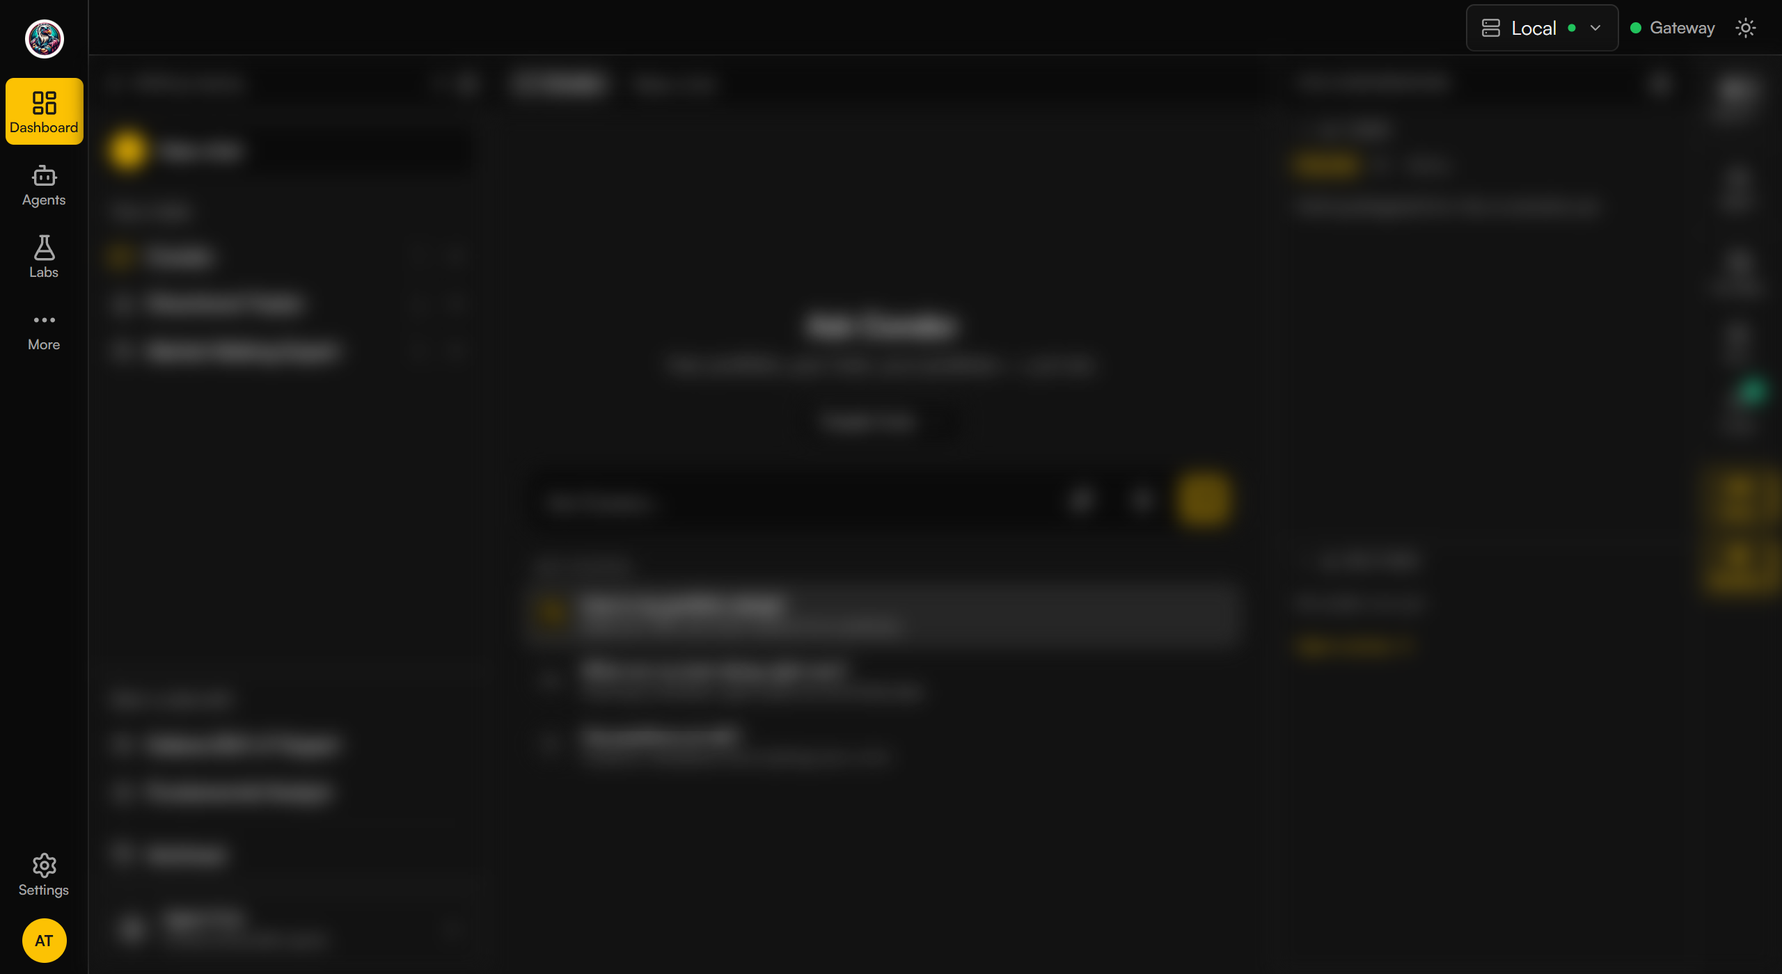
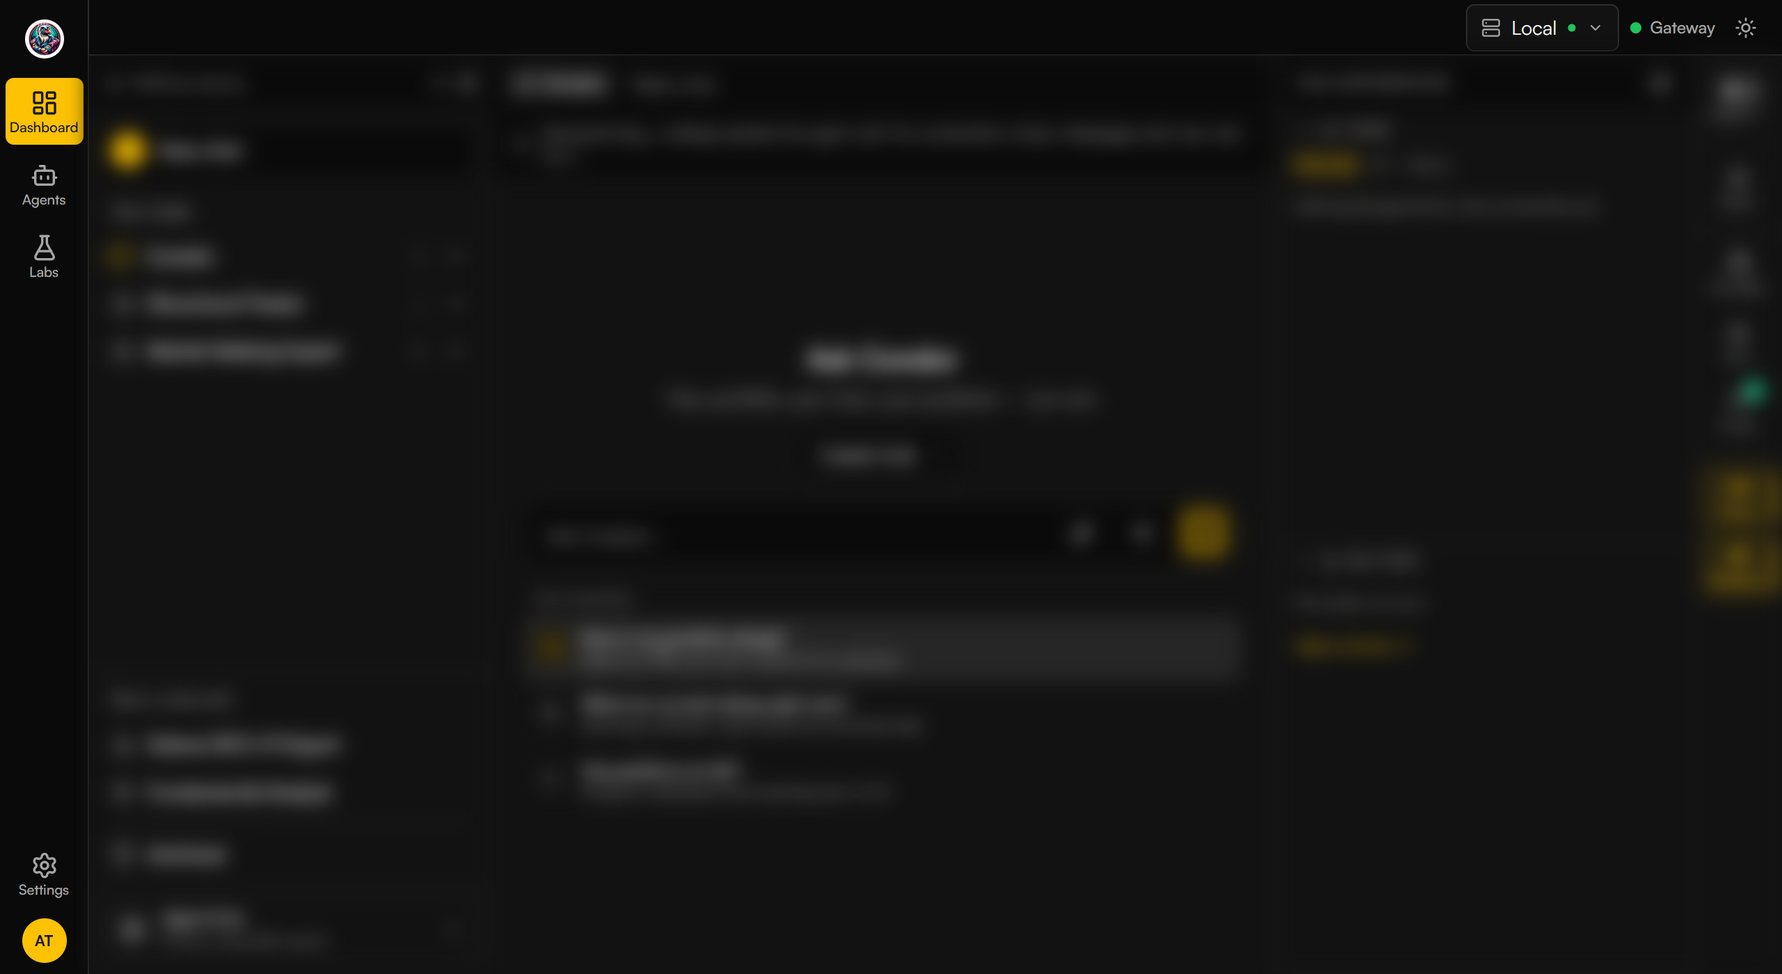
Proposals: rail without More (rail, nav and dashboard pictures), Settings panel in three groups

diff --git a/docs/proposals/side-rail.html b/docs/proposals/side-rail.html
@@ -15,8 +15,8 @@
 <nav class="top"><a href="index.html">All proposals</a></nav>
 
 <h1>A left icon rail instead of the top nav</h1>
-<p class="meta">Status: <strong>in review</strong> &middot; PRs #3, #4, #6, #7 into <code>ui-redesign</code>, plus #25 and #26 as extras &middot; Last updated: 2026-11-27 &middot; Branches reviewed on rn5 against an empty preview Condor</p>
-<p class="lede">Move Condor's navigation from the crowded top bar into a slim left icon rail (Dashboard, Agents, Labs, More and Settings), keep only the server, Gateway status and the mode switch in the top bar, put the user behind an initials avatar, and add a bottom tab bar on phones. The look stays the same. Only the layout changes.</p>
+<p class="meta">Status: <strong>in review</strong> &middot; PRs #3, #4, #6, #7 into <code>ui-redesign</code>, plus #25 and #26 as extras &middot; Last updated: 2026-11-28 &middot; Branches reviewed on rn5 against an empty preview Condor</p>
+<p class="lede">Move Condor's navigation from the crowded top bar into a slim left icon rail (Dashboard, Agents, Labs and Settings), keep only the server, Gateway status and the mode switch in the top bar, put the user behind an initials avatar, and add a bottom tab bar on phones. The look stays the same. Only the layout changes.</p>
 
 <h2 id="why">Why</h2>
 <p>The top bar carries seven page links and six controls in one 48 px strip, and it keeps growing as agents, strategies, routines and DEX tools arrive. On phones the links disappear and nothing replaces them. A left rail gives every surface a stable home and frees the top of the screen for the work.</p>
@@ -36,13 +36,11 @@
 <figure class="phone"><div class="phone-frame"><img src="assets/before-topnav-phone.png" alt="A phone showing the same Condor home: the top bar holds only the controls, with no page links"></div><figcaption>Phone (360 px wide screen, shown at its own size): no navigation links at all. The top bar holds only the controls.</figcaption></figure>
 
 <h2 id="after">After</h2>
-<p>A slim rail, a list panel, then the main area. Rail items: the logo, then Dashboard, Agents, Labs and More (the three dots), and at the bottom Settings (the gear) and an initials avatar. The right side of the top bar shows only Local (the server), Gateway status and Switch Mode.</p>
+<p>A slim rail, a list panel, then the main area. Rail items: the logo, then Dashboard, Agents and Labs, and at the bottom Settings (the gear) and an initials avatar. The right side of the top bar shows only Local (the server), Gateway status and Switch Mode.</p>
 
 <h3>The rail (PR #3)</h3>
-<figure class="wide"><img src="assets/rail-1-rail.png" alt="Condor with the left icon rail: Dashboard, Agents, Labs, More and the user initials; the page body is blurred. The top bar shows Local, Gateway status and Switch Mode"><figcaption>Labels appear on hover and keyboard focus. Left rail shows: Dashboard, Agents, Labs, More, Settings, User Initial.</figcaption></figure>
-<figure class="wide"><img src="assets/rail-2-more-menu.png" alt="The rail with the More panel open beside it: Hummingbot API, Gateway, Keys and Wallets, Servers, Updates, Report an Issue; the page body is blurred"><figcaption>The More dots open a small vertical panel beside the rail, titled More: Hummingbot API, Gateway, Keys and Wallets, Servers, Updates and Report an Issue. The first five open the matching Settings tab.</figcaption></figure>
-
-<figure class="wide"><img src="assets/rail-3-settings-menu.png" alt="The rail with the Settings panel open beside it: Agents, LLM Endpoints, Voice and AI, Appearance, Privacy; the page body is blurred"><figcaption>The Settings gear opens a small vertical panel beside the rail, titled Settings: Agents, LLM Endpoints, Voice &amp; AI, Appearance and Privacy. It is a different list from More.</figcaption></figure>
+<figure class="wide"><img src="assets/rail-1-rail.png" alt="Condor with the left icon rail: Dashboard, Agents, Labs, Settings and the user initials; the page body is blurred. The top bar shows Local, Gateway status and Switch Mode"><figcaption>Labels appear on hover and keyboard focus. Left rail shows: Dashboard, Agents, Labs, Settings, User Initial.</figcaption></figure>
+<figure class="wide"><img src="assets/rail-2-settings-menu.png" alt="The rail with the Settings panel open beside it, in three groups separated by dividers: Hummingbot API, Gateway, Keys and Wallets, Servers, Updates; then Agents, LLM Endpoints, Voice and AI, Appearance, Privacy; then Report an Issue; the page body is blurred"><figcaption>The Settings gear opens a small vertical panel beside the rail, titled Settings, with 11 rows in three groups separated by dividers (the groups have no titles). Group 1: Hummingbot API, Gateway, Keys and Wallets, Servers, Updates. Group 2: Agents, LLM Endpoints, Voice &amp; AI, Appearance, Privacy. Group 3: Report an Issue, which opens the existing dialog.</figcaption></figure>
 
 <h3>The avatar menu (PR #4)</h3>
 <figure class="wide"><img src="assets/avatar-1-menu.png" alt="The rail with the avatar popup open: the user name Algo Trader with the ADMIN role, and Logout; the page body is blurred"><figcaption>The popup shows only the user name with the ADMIN role, and Logout. While it is open only the avatar is lit.</figcaption></figure>
@@ -63,7 +61,7 @@
 <table>
   <thead><tr><th>PR</th><th>Branch</th><th>Scope</th><th>Review status</th></tr></thead>
   <tbody>
-    <tr><td>#3</td><td><code>ui/side-rail</code></td><td>Left icon rail replaces the top bar (Dashboard, Agents, Labs, More with three dots); Settings gear at the foot with its own panel; top bar keeps Local, Gateway status, Switch Mode; bell removed</td><td class="s tweak">Works, tweaks 1</td></tr>
+    <tr><td>#3</td><td><code>ui/side-rail</code></td><td>Left icon rail replaces the top bar (Dashboard, Agents, Labs); Settings gear at the foot opens a panel of 11 rows in three groups; top bar keeps Local, Gateway status, Switch Mode; bell removed</td><td class="s tweak">Works, tweaks 1</td></tr>
     <tr><td>#4</td><td><code>ui/account-menu</code></td><td>Avatar menu shows only the user name with role, and Logout</td><td class="s ok">Built, works</td></tr>
     <tr><td>#6</td><td><code>ui/mobile-nav</code></td><td>Bottom tab bar on phone widths (Dashboard, Agents, Labs, Account); the Account sheet holds More, Settings and Logout; no bell</td><td class="s tweak">Works, tweaks 2 and 3</td></tr>
     <tr><td>#7</td><td><code>ui/strategies-page</code></td><td><code>/labs</code> page (placeholder body); <code>/strategies</code> redirects to it</td><td class="s todo">Placeholder only</td></tr>
@@ -79,7 +77,7 @@
   <li><strong>Panel rail on phones (#6, #25).</strong> The chat workspace's own right-hand panel rail takes about 60 px of a 390 px screen, so the chat is squeezed. The tab bar replaces the left rail only. PR #25 turns that strip into a drawer below 768 px, opened by a Panels toggle in the chat bar (not merged yet; phone only).</li>
   <li><strong>Labs before #7 (#3, #6).</strong> If #3 to #6 are merged without #7, the Labs door and tab open the Not Found page.</li>
   <li><strong>Dashboard (#3).</strong> There is no stats page yet. The Dashboard door on the rail and on the phone still opens the chat home, which is why the images show it blurred.</li>
-  <li><strong>Settings entries (#3).</strong> All five Settings entries (Agents, LLM Endpoints, Voice &amp; AI, Appearance, Privacy) open a real Settings tab. The Notifications and Admin tabs are no longer listed in the panels; they are reachable only from inside the Settings page.</li>
+  <li><strong>Settings entries (#3).</strong> All 11 rows in the Settings panel open a real Settings tab, except Report an Issue, which opens the existing dialog. The Notifications and Admin tabs are not listed in the panel; they are reachable only from inside the Settings page.</li>
   <li><strong>Avatar popup (#4).</strong> The popup covers the Settings gear while it is open.</li>
   <li><strong>Labs content (#7).</strong> The page is a placeholder. Design, Backtest, Test Run and Diagnose still have to be built.</li>
   <li><strong>Lost entry points (#3, #4).</strong> The notification bell, the display currency and Run setup again have no place in the new layout yet. Decision: fine for now, a place is to be found later.</li>
@@ -95,13 +93,14 @@
 <table>
   <thead><tr><th>Date</th><th>Change</th><th>Reason / source</th><th>PR</th></tr></thead>
   <tbody>
-    <tr><td>2026-11-27</td><td>Labs now holds four tools: Design, Backtest, Test Run and Diagnose (the route stays <code>/labs</code>); no Settings entry is removed; the lit-state quirk is fixed in #3 (while a panel or the avatar popup is open, only its opener is lit, Dashboard is not); PR #25 (phone drawer for the chat panel rail) and PR #26 (tests refuse real ports) added to the rollout as extras</td><td>User answers; fix in PR #3 (<code>4ea4af86</code>)</td><td>#3, #7, #25, #26</td></tr>
-    <tr><td>2026-11-27</td><td>Rail revised again: More is back as the three-dot item after Labs, Settings is a separate gear item with its own panel (Agents, LLM Endpoints, Voice &amp; AI, Appearance, Privacy); the phone bar has four tabs (Dashboard, Agents, Labs, Account) and the Account sheet holds More, Settings and Logout; all desktop images retaken at 1280 by 700 at 2x and shown at one width; Dashboard page noted as the next proposal</td><td>User decisions on the open questions</td><td>#3, #6</td></tr>
-    <tr><td>2026-11-27</td><td>Final images for the rail, avatar menu, phone tab bar and Labs page, all retaken at 2x in the dark theme with the page body blurred and only the navigation sharp; phones now shown inside the phone frame, one per row; Phones section rewritten for the new tab bar (Dashboard, Agents, Labs, More, Account) and the six-entry More sheet; open points added for the Account tab, Labs before #7 and the Dashboard</td><td>User review of the proposal; PRs #3, #4, #6 and #7 merged down in order</td><td>#3, #4, #6, #7</td></tr>
-    <tr><td>2026-11-27</td><td>Rail proposal revised after review: rail items are Dashboard, Agents, Labs and More; top bar right side is Local, Gateway status and Switch Mode; More lists Hummingbot API, Gateway, Keys and Wallets, Servers, Updates and Report an Issue; bell removed; avatar popup reduced to the user name with role, and Logout; the Strategies page became the Labs page; the Chat list search and filter section (PR #8) was dropped by decision. Page bodies are blurred in the new images so the navigation stands out</td><td>User review of the proposal</td><td>#3, #4, #6, #7</td></tr>
+    <tr><td>2026-11-28</td><td>Rail simplified: Dashboard, Agents, Labs, then Settings and the avatar; the rail pictures are retaken to match; the second rail picture and its text are removed; the Settings panel now has 11 rows in three groups (Hummingbot API, Gateway, Keys and Wallets, Servers, Updates | Agents, LLM Endpoints, Voice &amp; AI, Appearance, Privacy | Report an Issue). The avatar and phone sections follow in a later revision</td><td>User review; PR #3 at <code>b5a1bd0d</code></td><td>#3</td></tr>
+    <tr><td>2026-11-27</td><td>Labs now holds four tools: Design, Backtest, Test Run and Diagnose (the route stays <code>/labs</code>); no Settings entry is removed; the lit-state quirk is fixed in #3 (while the Settings panel or the avatar popup is open, only its opener is lit, Dashboard is not); PR #25 (phone drawer for the chat panel rail) and PR #26 (tests refuse real ports) added to the rollout as extras</td><td>User answers; fix in PR #3 (<code>4ea4af86</code>)</td><td>#3, #7, #25, #26</td></tr>
+    <tr><td>2026-11-27</td><td>Rail revised again: Settings is a separate gear item with its own panel (Agents, LLM Endpoints, Voice &amp; AI, Appearance, Privacy); the phone bar has four tabs (Dashboard, Agents, Labs, Account); all desktop images retaken at 1280 by 700 at 2x and shown at one width; Dashboard page noted as the next proposal</td><td>User decisions on the open questions</td><td>#3, #6</td></tr>
+    <tr><td>2026-11-27</td><td>Final images for the rail, avatar menu, phone tab bar and Labs page, all retaken at 2x in the dark theme with the page body blurred and only the navigation sharp; phones now shown inside the phone frame, one per row; Phones section rewritten for the new tab bar; open points added for the Account tab, Labs before #7 and the Dashboard</td><td>User review of the proposal; PRs #3, #4, #6 and #7 merged down in order</td><td>#3, #4, #6, #7</td></tr>
+    <tr><td>2026-11-27</td><td>Rail proposal revised after review: rail items are Dashboard, Agents and Labs; top bar right side is Local, Gateway status and Switch Mode; bell removed; avatar popup reduced to the user name with role, and Logout; the Strategies page became the Labs page; the Chat list search and filter section (PR #8) was dropped by decision. Page bodies are blurred in the new images so the navigation stands out</td><td>User review of the proposal</td><td>#3, #4, #6, #7</td></tr>
     <tr><td>2026-11-27</td><td>"Before" images retaken from the old top-nav build, one per row: the full desktop screen at 1280 px, and the phone screen inside a CSS phone frame (same treatment as the onboarding page). The old phone image showed the keys overlay, not the top bar. "After" images unchanged</td><td>User review: larger Before images so the text is readable</td><td>#13</td></tr>
     <tr><td>2026-11-26</td><td>Page rebuilt as editable HTML in <code>docs/proposals/</code>; screenshots retaken from the PR branches</td><td>Previous version was a generated page that could not be edited by every agent</td><td>docs</td></tr>
-    <tr><td>2026-11-26</td><td>Review notes added: hover-only labels, panel rail and More menu on phones</td><td>Review of PRs #3, #4, #6, #7 built on rn5</td><td>&mdash;</td></tr>
+    <tr><td>2026-11-26</td><td>Review notes added: hover-only labels, panel rail on phones</td><td>Review of PRs #3, #4, #6, #7 built on rn5</td><td>&mdash;</td></tr>
   </tbody>
 </table>
 

diff --git a/docs/proposals/trader-nav.html b/docs/proposals/trader-nav.html
@@ -15,7 +15,7 @@
 <nav class="top"><a href="index.html">All proposals</a></nav>
 
 <h1>Simplify Navigation to Essentials</h1>
-<p class="meta">Status: <strong>in review</strong> &middot; No PR of its own: the rail PRs #3, #4, #6 and #7 into <code>ui-redesign</code> already build it (see <a href="side-rail.html">the side-rail proposal</a>) &middot; Last updated: 2026-11-27</p>
+<p class="meta">Status: <strong>in review</strong> &middot; No PR of its own: the rail PRs #3, #4, #6 and #7 into <code>ui-redesign</code> already build it (see <a href="side-rail.html">the side-rail proposal</a>) &middot; Last updated: 2026-11-28</p>
 <p class="lede">Cut the main navigation from seven page links to three doors, each named after something a trader does: <strong>Dashboard</strong> to check, <strong>Agents</strong> to learn, <strong>Labs</strong> to build. The look stays the same. What changes is what the user sees first and what each door is for.</p>
 
 <h2 id="why">Why</h2>
@@ -37,15 +37,15 @@
 </table>
 <h2 id="after">After</h2>
 <div class="rail-demo">
-  <figure><img src="assets/trader-nav-rail.png" alt="Close-up of the left rail in the dark theme: the Condor logo, then Dashboard (lit), Agents, Labs and More, each with its name under the icon"></figure>
+  <figure><img src="assets/trader-nav-rail.png" alt="Close-up of the left rail in the dark theme: the Condor logo, then Dashboard (lit), Agents and Labs, each with its name under the icon"></figure>
 </div>
 
 <h2 id="rollout">Rollout</h2>
-<p>This proposal has no PR of its own. The rail PRs already carry the three doors, the More and Settings panels and the account menu. What is still missing is listed in the last column.</p>
+<p>This proposal has no PR of its own. The rail PRs already carry the three doors, the Settings panel and the account menu. What is still missing is listed in the last column.</p>
 <table>
   <thead><tr><th>PR</th><th>What it gives this proposal</th><th>Status</th><th>Still missing</th></tr></thead>
   <tbody>
-    <tr><td>#3</td><td>The rail: Dashboard, Agents, Labs, More, Settings; the top bar reduced to Local, Gateway status and Switch Mode</td><td class="s ok">Built, tested</td><td>Dashboard still opens the chat home</td></tr>
+    <tr><td>#3</td><td>The rail: Dashboard, Agents, Labs, Settings; the top bar reduced to Local, Gateway status and Switch Mode</td><td class="s ok">Built, tested</td><td>Dashboard still opens the chat home</td></tr>
     <tr><td>#4</td><td>The account menu: name, role, Logout</td><td class="s ok">Built, tested</td><td>&mdash;</td></tr>
     <tr><td>#6</td><td>The same doors as a bottom tab bar on phones (Dashboard, Agents, Labs, Account)</td><td class="s ok">Built, tested</td><td>&mdash;</td></tr>
     <tr><td>#7</td><td>The Labs door and its page</td><td class="s todo">Placeholder only</td><td>Design, Backtest, Test Run, Diagnose; import from Agents</td></tr>
@@ -61,6 +61,7 @@
 <table>
   <thead><tr><th>Date</th><th>Change</th><th>Reason / source</th><th>PR</th></tr></thead>
   <tbody>
+    <tr><td>2026-11-28</td><td>The After close-up is retaken and now ends at Labs; the text that listed a fourth rail item is removed from the picture description, the rollout and the table</td><td>User review; PR #3 at <code>b5a1bd0d</code></td><td>#13</td></tr>
     <tr><td>2026-11-27</td><td>Revised after review: the page is renamed "Simplify Navigation to Essentials"; the Why is now two short paragraphs; the page is trimmed to Why, Before, Proposal, After, Rollout and Decision; Before and After show only their images; the part of the Proposal about what moves out of the main three is removed</td><td>User review of the proposal</td><td>#13</td></tr>
     <tr><td>2026-11-27</td><td>Linked to the Dashboard proposal page (<code>dashboard-home.html</code>) from a "Next proposal" line</td><td>The Dashboard proposal was written</td><td>#13</td></tr>
     <tr><td>2026-11-27</td><td>First version: why, the old nav items counted from the code, the three doors, a close-up of the rail with a legend, rollout through the rail PRs, open points</td><td>User request for a proposal on simplifying the nav for trader use</td><td>#13</td></tr>

diff --git a/docs/proposals/dashboard-home.html b/docs/proposals/dashboard-home.html
@@ -15,7 +15,7 @@
 <nav class="top"><a href="index.html">All proposals</a></nav>
 
 <h1>Dashboard as the Default Home Page</h1>
-<p class="meta">Status: <strong>in review, not built</strong> &middot; No code PR exists yet: this page only proposes &middot; Last updated: 2026-11-27</p>
+<p class="meta">Status: <strong>in review, not built</strong> &middot; No code PR exists yet: this page only proposes &middot; Last updated: 2026-11-28</p>
 <p class="lede">Open Condor on a page made for a trader's routine: how the portfolio changed, what the bots are doing, what the market is doing, the top news. Today the home page is a chat with agents. The chat stays, one step further out.</p>
 
 <h2 id="why">Why</h2>
@@ -59,6 +59,7 @@
 <table>
   <thead><tr><th>Date</th><th>Change</th><th>Reason / source</th><th>PR</th></tr></thead>
   <tbody>
+    <tr><td>2026-11-28</td><td>The After picture is retaken on the updated left rail (Dashboard, Agents, Labs, then Settings and the avatar); the page content is the same</td><td>User review; PR #3 at <code>b5a1bd0d</code></td><td>#13</td></tr>
     <tr><td>2026-11-27</td><td>Revised after review: the Why is now three short paragraphs; the page is trimmed to Why, Before, After, Notes, Rollout and Decision; the Before keeps only what is missing for a trader and has no caption; the After text now explains what the page is for instead of describing the picture, and its note is shortened; the table under the picture is removed; the picture gains a "Live Agents" row of three cards (Stable Churn, GateForum, JEV) with sample data, and is retaken at 1280 by 1300 at 2x (2560 by 2600); the mock source is updated to match</td><td>User review of the proposal</td><td>#13</td></tr>
     <tr><td>2026-11-27</td><td>First version: reasons for the change, the current Agents home as "Before", a mock Dashboard with sample data on the real rail and top bar as "After" (the mock is kept in <code>assets/dashboard-mock.html</code>), notes, and a statement that nothing is built</td><td>User request for a proposal on the Dashboard as the default home page. The reference pictures the user mentioned did not arrive, so the layout followed the written list</td><td>#13</td></tr>
   </tbody>

diff --git a/docs/proposals/index.html b/docs/proposals/index.html
@@ -11,15 +11,15 @@
 
 <h1>Condor dashboard redesign: proposals</h1>
 <p class="lede">One page per proposed change: why, before and after, review status, and a log of refinements. These pages are the record of the redesign. Feedback from the Hummingbot team goes in PR comments; settled decisions are copied here and into <code>DESIGN.md</code>.</p>
-<p class="meta">Integration branch: <code>ui-redesign</code> in <a href="https://github.com/carlito-hummingbot/condor">carlito-hummingbot/condor</a>. Last updated: 2026-11-27.</p>
+<p class="meta">Integration branch: <code>ui-redesign</code> in <a href="https://github.com/carlito-hummingbot/condor">carlito-hummingbot/condor</a>. Last updated: 2026-11-28.</p>
 
 <table>
   <thead><tr><th>Proposal</th><th>PRs</th><th>Status</th><th>Last updated</th></tr></thead>
   <tbody>
-    <tr><td><a href="side-rail.html">Left icon rail, avatar menu, phone tab bar, Labs page</a></td><td>#3, #4, #6, #7, #25, #26</td><td class="s tweak">In review, open points</td><td>2026-11-27</td></tr>
+    <tr><td><a href="side-rail.html">Left icon rail, avatar menu, phone tab bar, Labs page</a></td><td>#3, #4, #6, #7, #25, #26</td><td class="s tweak">In review, open points</td><td>2026-11-28</td></tr>
     <tr><td><a href="onboarding.html">Guided first-run onboarding</a></td><td>#2, #9, #11, #12</td><td class="s tweak">In review, open points</td><td>2026-11-26</td></tr>
-    <tr><td><a href="trader-nav.html">Simplify Navigation to Essentials</a></td><td>None of its own (built by #3, #4, #6, #7)</td><td class="s tweak">In review</td><td>2026-11-27</td></tr>
-    <tr><td><a href="dashboard-home.html">Dashboard as the Default Home Page</a></td><td>None yet (not built)</td><td class="s tweak">In review, not built</td><td>2026-11-27</td></tr>
+    <tr><td><a href="trader-nav.html">Simplify Navigation to Essentials</a></td><td>None of its own (built by #3, #4, #6, #7)</td><td class="s tweak">In review</td><td>2026-11-28</td></tr>
+    <tr><td><a href="dashboard-home.html">Dashboard as the Default Home Page</a></td><td>None yet (not built)</td><td class="s tweak">In review, not built</td><td>2026-11-28</td></tr>
   </tbody>
 </table>
 

diff --git a/docs/proposals/README.md b/docs/proposals/README.md
@@ -25,7 +25,7 @@ status, and keep a log of refinements, so the team can see how a design changed 
 ## Screenshots
 
 - Take them from the PR branch build, not from mock-ups. Name them by what they show
-  (`rail-2-more-menu.png`, `onboarding-3-connect.png`).
+  (`rail-2-settings-menu.png`, `onboarding-3-connect.png`).
 - Show the "before" from the `ui-redesign` baseline.
 - Phone views: render the app in a 390 px wide frame.
 - Never include real balances, keys, addresses or server names. Use an empty or stub backend.
